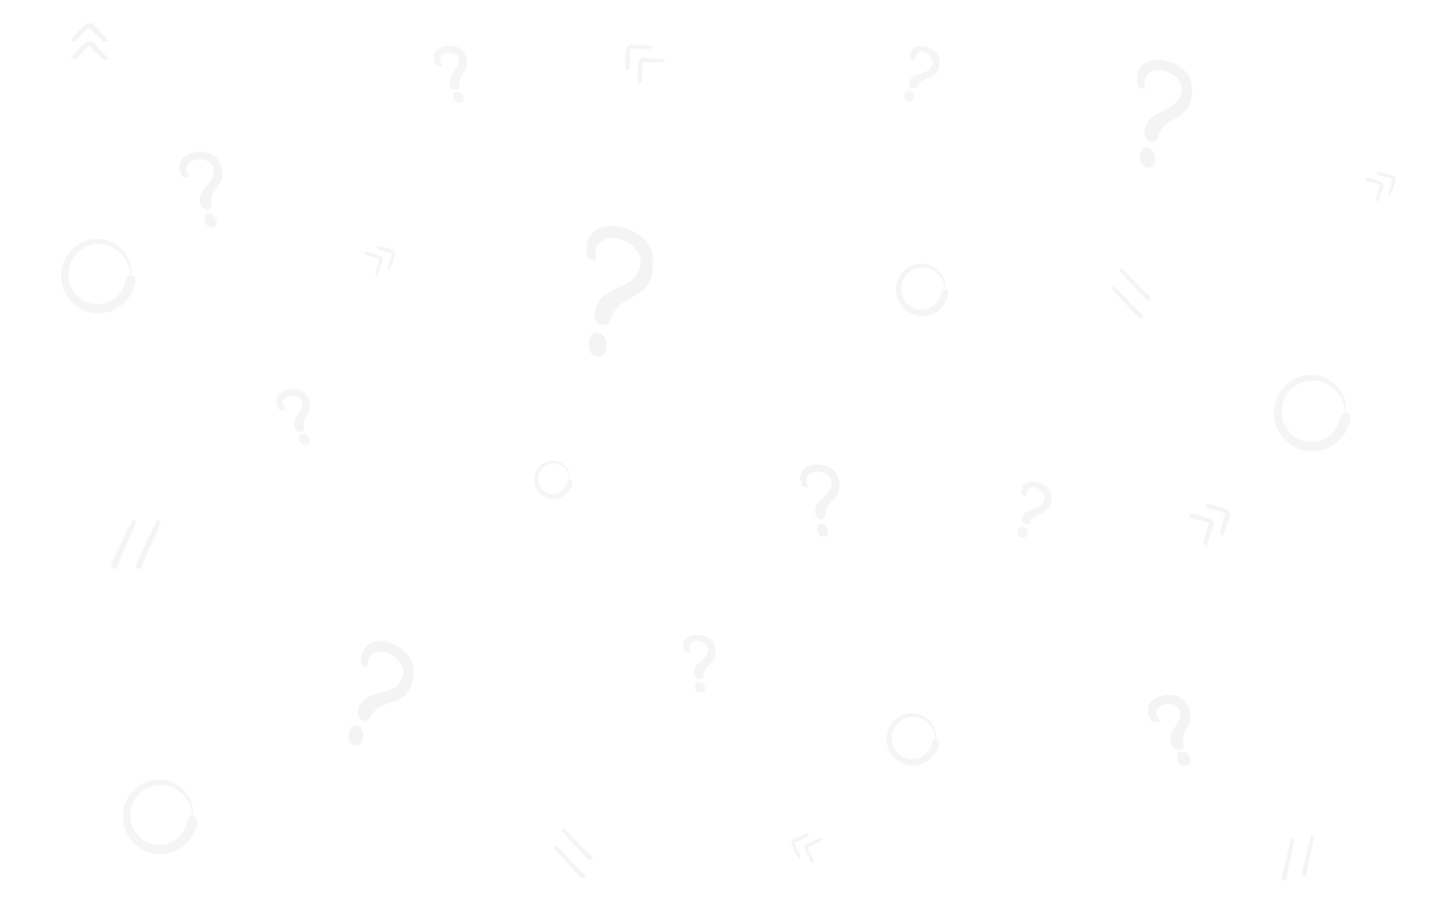
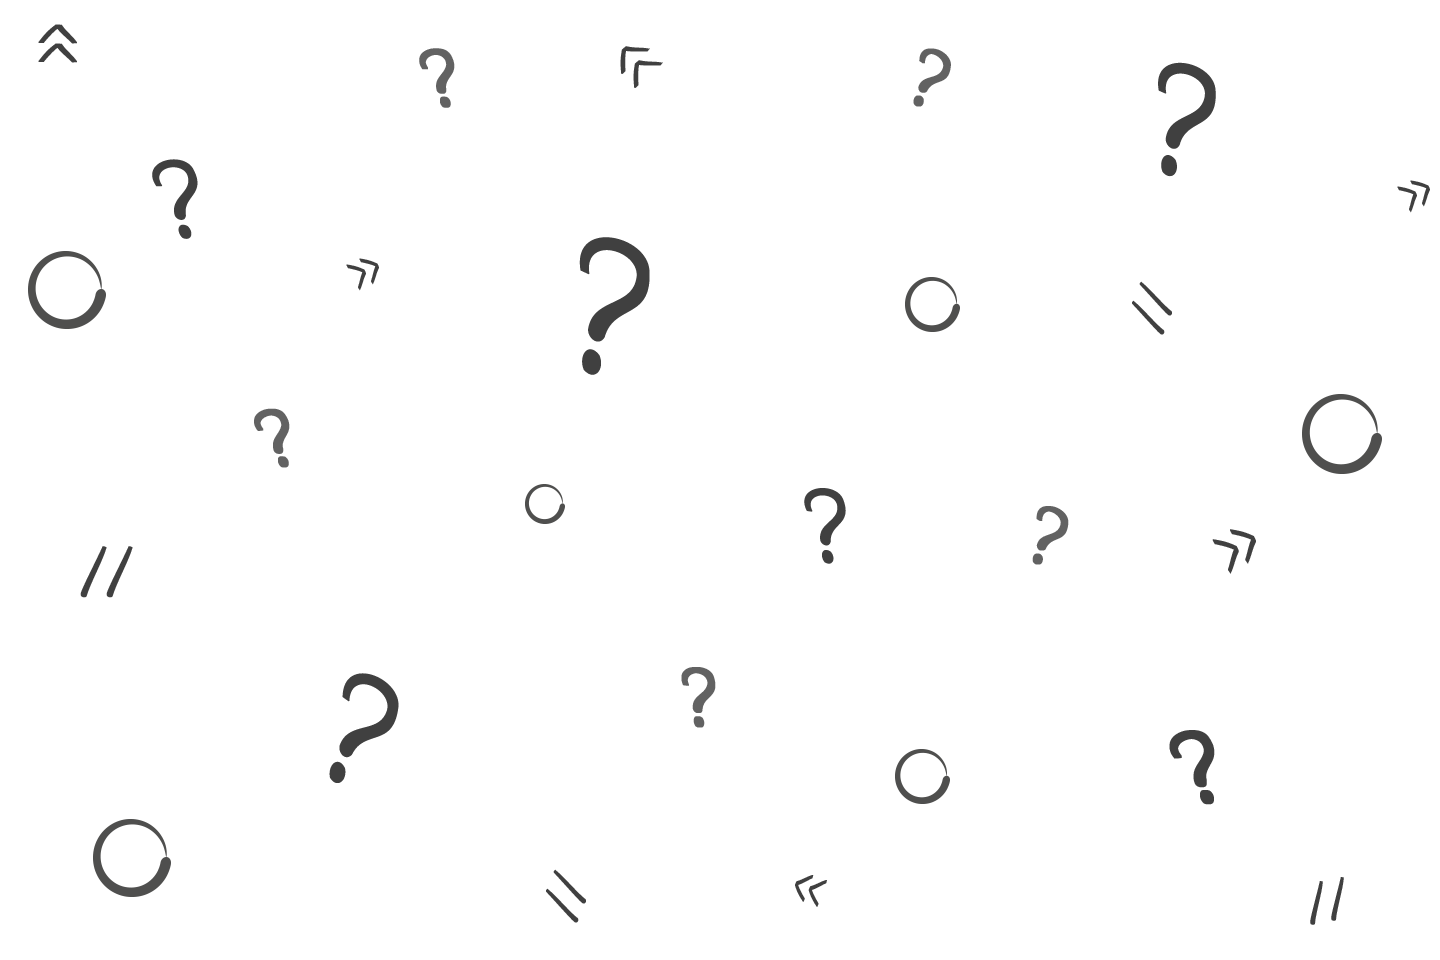
feat: complete 2-nd block

diff --git a/src/styles/style.css b/src/styles/style.css
@@ -69,11 +69,16 @@ header {
   width: 1440px;
   margin: 0px auto;
   background-color: var(--light);
+  position: relative;
 }
 
-.header-bg {
-  background-image: url(../images/background-pattern.png);
-  background-size: auto;
+header::before {
+  content: url(../images/background-pattern.png);
+  opacity: 0.1;
+  background-size: cover;
+  background-repeat: no-repeat;
+  z-index: 1;
+  position: absolute;
 }
 
 .orange {
@@ -93,6 +98,8 @@ header {
   width: 1110px;
   padding: 100px 0px;
   margin: 0 auto;
+  z-index: 3;
+  position: relative;
 }
 .main-content {
   display: flex;
@@ -107,7 +114,7 @@ header {
 .hero-title {
   font-size: 72px;
   position: relative;
-  z-index: 3;
+  z-index: 4;
 }
 .mtop-7px {
   margin-top: 7px;
@@ -125,14 +132,14 @@ header {
 .tota_pic {
   position: absolute;
   right: -180px;
-  z-index: 1;
+  z-index: 2;
 }
 .header-description {
   display: flex;
   flex-direction: row;
   justify-content: space-between;
 }
-.bg-orange {
+.btn-main {
   background-color: var(--main-color);
   color: var(--white);
   font-family: "OpenSans";
@@ -148,4 +155,41 @@ header {
   flex-direction: column;
   margin-bottom: 35px;
   gap: 20px;
+}
+.about-title {
+  font-family: "Neucha";
+  font-size: 60px;
+  font-weight: 400;
+  line-height: 72px;
+  letter-spacing: 0%;
+  text-align: center;
+}
+.about-subtitle {
+  display: block;
+  font-family: "Neucha";
+  text-align: center;
+  font-size: 60px;
+  line-height: 72px;
+  font-weight: 400;
+}
+.author-video {
+  font-family: "OpenSans";
+  font-weight: 400;
+  font-size: 16px;
+  margin-top: 27px;
+  text-align: center;
+}
+.about-text {
+  position: relative;
+}
+.preview-image {
+  position: absolute;
+  bottom: -520px;
+  right: 60px;
+  filter: drop-shadow(0 16px 32px rgba(0 0 0 / 15%));
+}
+.preview-image img {
+  display: block;
+  object-fit: cover;
+  height: 100%;
 }

diff --git a/src/index.html b/src/index.html
@@ -50,14 +50,28 @@
                   остатки нейтрализовать.
                 </p>
               </div>
-              <button class="bg-orange">Подробнее</button>
+              <button class="bg-orange btn-main">Подробнее</button>
             </div>
           </div>
         </div>
       </div>
     </header>
     <main>
-      <section></section>
+      <section class="about">
+        <div class="container">
+          <div class="about-info">
+            <h2 class="about-title">Что же это такое,</h2>
+            <span class="about-subtitle orange">когнитивные искажения?</span>
+            <p class="author-video">
+              Что такое когнитивные искажения. Petrovna Channel
+            </p>
+
+            <a href="#" class="preview-image">
+              <img src="../src/images/Video.png" alt="video_youtube_channel"
+            /></a>
+          </div>
+        </div>
+      </section>
     </main>
     <footer></footer>
   </body>
